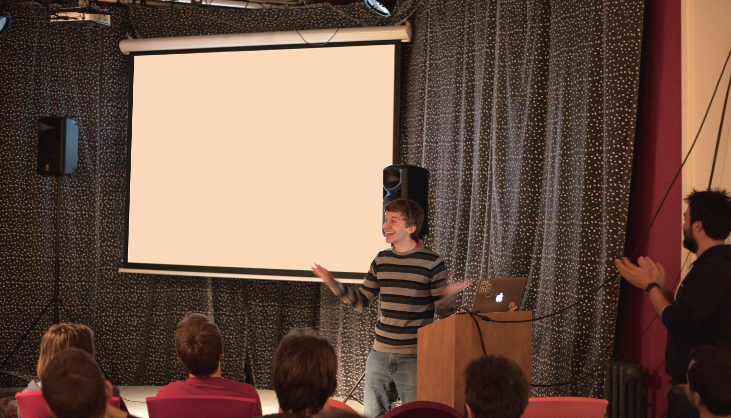
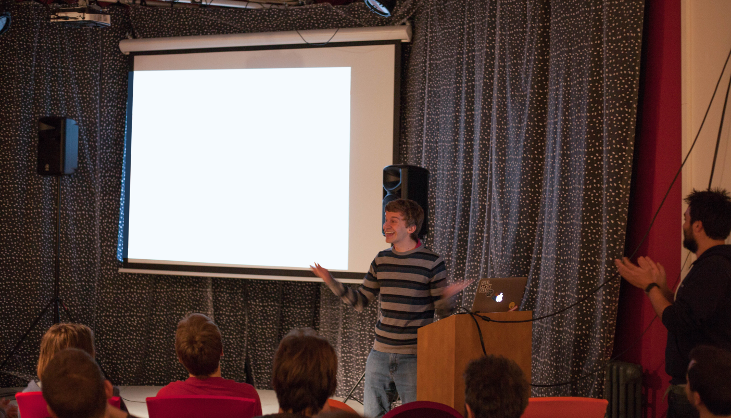
Text colour matches screen background
Projectors don't project black light - that doesn't exist. Now the colour of the text matches the screen where the projector isn't shining.

Also added some projector light for my image, and darkened Ryan's photo to make the text colour more readable

diff --git a/people.js b/people.js
@@ -4,41 +4,47 @@ module.exports = {
     'x': 340,
     'y': 80,
     'fontSize': 25,
-    'rotation': 0
+    'rotation': 0,
+    'colour': '#979EA4'
   },
   'seren' : {
     'file': 'images/seren.png',
     'x': 300,
     'y': 100,
     'fontSize': 30,
-    'rotation': 0
+    'rotation': 0,
+    'colour': '#131415'
   },
   'ryan' : {
     'file': 'images/ryan.png',
     'x': 20,
     'y': 100,
     'fontSize': 20,
-    'rotation': 0
+    'rotation': 0,
+    'colour': '#A3B5C0'
   },
   'ruth' : {
     'file': 'images/ruth.png',
     'x': 120,
     'y': 120,
     'fontSize': 20,
-    'rotation': 0
+    'rotation': 0,
+    'colour': '#5C5F4B'
   },
   'pete' : {
     'file': 'images/pete.png',
     'x': 60,
     'y': 100,
     'fontSize': 30,
-    'rotation': 2
+    'rotation': 2,
+    'colour': '#A3A29F'
   },
   'dan' : {
     'file': 'images/dan.png',
     'x': 150,
-    'y': 100,
+    'y': 115,
     'fontSize': 20,
-    'rotation': -1
+    'rotation': 1,
+    'colour': '#9F7E6E'
   }
 };

diff --git a/app.js b/app.js
@@ -37,7 +37,7 @@ function generateImage(timestamp, person, text, done) {
         </pattern>
       </defs>
       <path d="M0 0 H 743 V 418 H 0 L 0 0" fill="url(#img1)"/>
-      <text x="${person.x}" y="${person.y}" transform="rotate(${person.rotation} ${person.x} ${person.y})" font-family="Arial" font-size="${person.fontSize}">
+      <text x="${person.x}" y="${person.y}" transform="rotate(${person.rotation} ${person.x} ${person.y})" font-family="Arial" fill="${person.colour}" font-size="${person.fontSize}">
           ${formattedText}
       </text>
     </svg>`;
